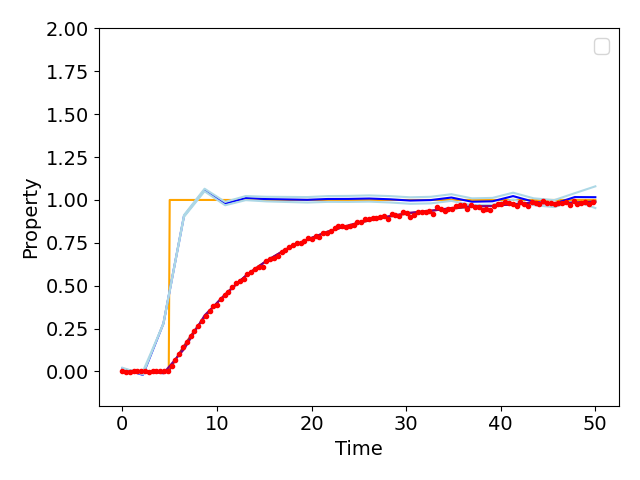
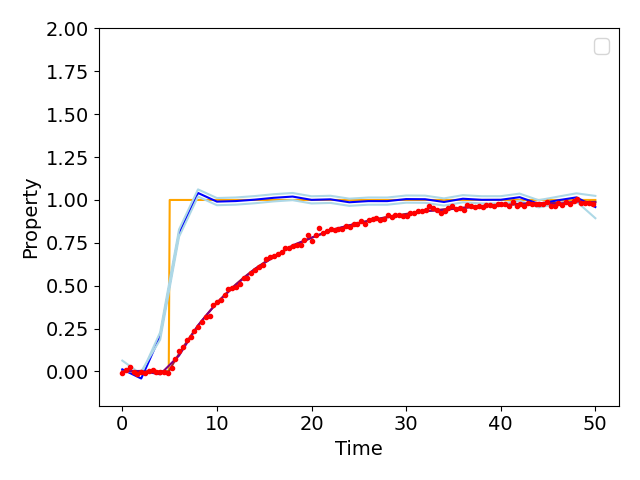
Response time correction of slow response sensor data using deconvolution of the growth law equation
See Dølven et al., (2022) (doi = 10.5194/gi-2021-28)

diff --git a/deconv.py b/deconv.py
@@ -5,12 +5,39 @@ Version 1.56
 @author: Knut Ola Dølven and Juha Vierinen
 
 Contains deconvolution, inlcuding automatic Delta T selection as described in 
-Dølven et al., (2021), but also includes a variant using Tikhonov regularization and all functions 
+Dølven et al., (2022), but also includes a variant using Tikhonov regularization and all functions 
 producing the results presented in Dølven et al., (2021). 
 The function that does deconvolution with automatic delta_t selection as  described in 
-Dølven et al., (2021) is named "deconv_master() which integrates all functions and is 
+Dølven et al., (2022) is named "deconv_master() which integrates all functions and is 
 the final product of this work. 
-"""
+Supporting functions are:
+    
+    diffusion_theory - Builds the theory matrix (m=Gx or eq.5 and 6 in Dølven et al., (2022))
+    
+    test_ua - Function that creates a step-change signal
+    
+    forward_model - Convolution model to simulate sensor response/measurements from an arbiry signal
+    
+    sime_meas - Function that makes simulated measurements using forward_model and test_ua
+    
+    find_kink - Regularization optimization using L-curve analysis finding maximum gradient point
+    
+    estimate_concentration - Estimates concentration using a least squares solution of diffusion_theory 
+        and measurement/setting input. Switch to non-negative least squares can be done here. 
+        
+    field_example_tikhonov - Estimates concentration using the field example data (see Dølven et al., 2022)
+        and tikhonov regularization
+        
+    field_example_model_complexity - Estimates concentration using field example data and complexity
+        regularization
+        
+    deconv_master - Estimates concentration for any dataset/input parameters (described in help(deconv_master))
+            returns vectors containing the estimated corrected data, measurement estimate, model time, 
+            standard deviation *2 (95% confidence) . The function also provides an L-curve plot, fit residual 
+            plot and estimate plot.
+                            
+    
+    """
 
 import matplotlib
 SMALL_SIZE = 14
@@ -18,15 +45,16 @@ matplotlib.rc('font', size=SMALL_SIZE)
 matplotlib.rc('axes', titlesize=SMALL_SIZE)
 import numpy as n
 import matplotlib.pyplot as plt
-import scipy.signal as s
+import scipy.signal as s #used if you want to use nonzero 
 import scipy.optimize as so
 import scipy.io as sio
 import scipy.interpolate as sint
 from scipy.interpolate import UnivariateSpline as unisp
 
+#Diffusion_theory Function that builds the theory matrix
 def diffusion_theory(u_m,                           # these are the measurements
                      t_meas,                        # measurement times
-                     missing_idx=[],
+                     missing_idx=[],                # if measurements are missing
                      k=1.0,                         # diffusion coefficient
                      t_model=n.linspace(0,5,num=100),   # time for model
                      sigma=0.01,                    # u_m measurement noise standard deviation
@@ -138,13 +166,16 @@ def sim_meas(t,u_a,k=1.0,u_m0=0.0):
     u_m=forward_model(t,u_a,k=k,u_m0=u_m0)
     # a simple model for measurement noise, which includes
     # noise that is always there, and noise that depends on the quantity
-    noise_std = 0.03#u_m*0.01 + 0.001
+    noise_std = u_m*0.01 + 0.001
     m=u_m + noise_std*n.random.randn(len(u_m))
     return(m,noise_std)
 
 #Function that finds delta t using cubic spline approx. to max curvature point
 #in L-curve
-def find_kink(err_norms,sol_norms,num_sol,n_models):
+def find_kink(err_norms, #  Solution norm (first-order differences of the maximum a posteriori solution)
+              sol_norms, #  Model fit residual norm (sum of residuals between model measurements and real measurements)
+              num_sol, # The number of timesteps in the solution
+              n_models): #Number of different models to be tested
     #Make log-versions of error norm and solution norm
     err_norms_lg = n.log(err_norms)
     sol_norms_lg = n.log(sol_norms)        
@@ -181,7 +212,13 @@ def find_kink(err_norms,sol_norms,num_sol,n_models):
     return(n_model)
 
 #Function that estimates concentration
-def estimate_concentration(u_m,u_m_stdev,t_meas,k,n_model=400,smoothness=1e-5,calc_var=True):
+def estimate_concentration(u_m, #Measurements 
+                           u_m_stdev, #Uncertainty of measurements  (same size as u_m)
+                           t_meas, #Time vector for measurements
+                           k, #Growth coefficient
+                           n_model=400, #Number of model points 
+                           smoothness=0, #The amount of smoothness. Set to zero to turn off Tikhonov regularization
+                           calc_var=True): #True if you want to model error propagation
 
     # how many grid points do we have in the model
     t_model=n.linspace(n.min(t_meas),n.max(t_meas),num=n_model)
@@ -214,7 +251,7 @@ def estimate_concentration(u_m,u_m_stdev,t_meas,k,n_model=400,smoothness=1e-5,ca
 def unit_step_test(k=0.1, #growth coefficient
                    missing_meas=False, #missing measurement trigger
                    missing_t=[14,16], #missing measurement location
-                   pfname="unit_step.png", 
+                   pfname="unit_step.png", #name of output figure
                    n_model = 'auto', #model complexity (number of model-points, i.e. delta T)
                    delta_ts = 'auto', #Range of delta-ts used to estimate L-curve. Specified as 'auto' (default), [min,max] of desired delta_t, or array of values
                    num_sol = 50): #Number of solutions used in L-curve
@@ -363,41 +400,9 @@ def unit_step_test(k=0.1, #growth coefficient
     print("Delta t equals")
     print(n.abs(((max(t)-min(t))/n_model)))
 
-def sensor_example(pfname="methane.png"):
+def field_example_tikhonov(): #same as sensor_example just with tikhonov regularization
     # read lab data
-    d=sio.loadmat("time.mat")
-    t=d["time"][0]
-    u_m_meas=d["slowsens"][0]
-    u_a_fast=d["fastsens"][0]
-
-    # error standard deviation
-    sigma=(0.001*n.abs(u_m_meas) + 0.1)*4.0
-
-    k=(60.0*24.0)/30.0
-    u_a_estimate, u_m_estimate, t_model, u_a_std, u_m_std= estimate_concentration(u_m_meas, sigma, t, k, n_model=200, smoothness=0) #was 1e-5
-
-    plt.figure()
-    plt.plot(t,u_m_meas,label="Slow sensor $u_m(t)$")
-    plt.plot(t,u_a_fast,label="Fast sensor $\\hat{u}_a(t)$")
-    plt.plot(t_model,u_a_estimate,label="Slow sensor $\\hat{u}_a(t)$")
-    plt.plot(t_model,u_a_estimate+u_a_std*2,color="lightgreen")
-    lb=u_a_estimate-u_a_std*2
-    lb[lb<0]=0.0
-    plt.plot(t_model,lb,color="lightgreen")
-    plt.ylabel("Concentration (ppm)")
-    plt.xlabel("Time (days)")    
-    plt.legend()
-    plt.tight_layout()
-    plt.savefig(pfname)
-    plt.show()
-    
-    plt.figure()
-    plt.plot(t_model,u_a_std)
-    plt.show()
-
-def field_example_tikhonov():
-    # read lab data
-    d=sio.loadmat("fielddata.mat")
+    d=sio.loadmat("fielddata.mat") 
     t=n.copy(d["time"])[:,0]
     u_slow=n.copy(d["slow"])[:,0]
     u_fast=n.copy(d["fast"])[:,0]
@@ -460,15 +465,15 @@ def field_example_model_complexity():
     # Use only model sparsity (sampling rate of the model) as the a priori assumption
     # We set smoothness to zero, which turns off Tikhonov regularization.
     # read data
-    d=sio.loadmat("time.mat")
+    d=sio.loadmat("time.mat") #data matrix
     #t=n.copy(d["time"])[:,0]
     #u_slow=n.copy(d["slowsens"])[:,0]
     #u_fast=n.copy(d["fastsens"])[:,0]
     
     #For time.mat
-    t=n.copy(d["time"])[:]
-    u_slow=n.copy(d["slowsens"])[:]
-    u_fast=n.copy(d["fastsens"])[:]
+    t=n.copy(d["time"])[:] #time vector
+    u_slow=n.copy(d["slowsens"])[:] #slow sensor data
+    u_fast=n.copy(d["fastsens"])[:] #fast sensor data
         
     k=(60.0*24.0)/40.0 #Growth coefficient
     n_model = 'auto' #model complexity (number of model-points, i.e. delta T)
@@ -739,7 +744,6 @@ def deconv_master(u_slow,t,k,
     return(u_a_est,u_m_est,t_model,u_a_std,resid)
           
 if __name__ == "__main__":
-    #sensor_example()
     unit_step_test(pfname="unit_step.png",num_sol=100)    
     #unit_step_test(missing_meas=True,pfname="unit_step_missing.png")    
     #use model sparsity (finite number of samples) to regularize the solution   
